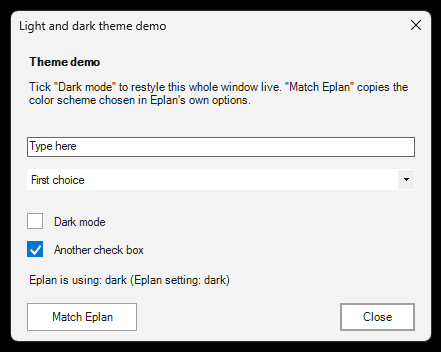
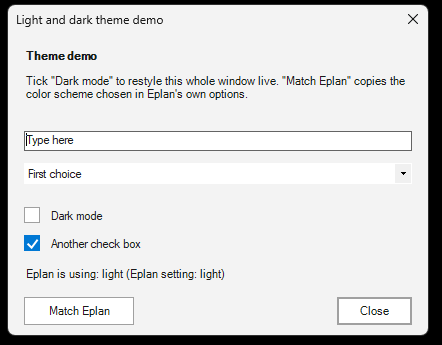
Confirm all three color scheme values for example 04 in Eplan 2026
Dark (1), light (2) and automatic (0) read correctly. Adds light and
automatic screenshots from Eplan; updates compatibility notes.

diff --git a/examples/04-light-dark-theme/LightDarkTheme.cs b/examples/04-light-dark-theme/LightDarkTheme.cs
@@ -3,7 +3,7 @@
 // Purpose   : Restyle your own window live with a "Dark mode" check box, and match Eplan's own color scheme automatically.
 // You learn : Color palettes, restyling controls in a loop, custom-painted check box, dark title bar, reading an Eplan setting
 // Level     : Intermediate
-// Tested in : Compile-checked against Eplan Electric P8 2025.0.3 and 2026.0.3 (run in 2026 with Eplan set to dark; 2025 and light/auto still to test)
+// Tested in : Compile-checked against Eplan Electric P8 2025.0.3 and 2026.0.3 (run in 2026 with Eplan set to dark, light and automatic; 2025 not tested)
 // Author    : Justin Walz
 // License   : MIT (see LICENSE in the repo root)
 // ============================================================

diff --git a/examples/04-light-dark-theme/README.md b/examples/04-light-dark-theme/README.md
@@ -2,11 +2,11 @@
 
 **Level:** Intermediate  **File:** [LightDarkTheme.cs](LightDarkTheme.cs)
 
-| Dark | Light |
-|------|-------|
-| ![Dark theme](screenshot-dark.png) | ![Light theme](screenshot-light.png) |
+| Dark | Light | Automatic (Windows decides) |
+|------|-------|-----------------------------|
+| ![Dark theme](screenshot-dark.png) | ![Light theme](screenshot-light.png) | ![Automatic setting](screenshot-automatic.png) |
 
-_Both screenshots were taken from the script running in Eplan 2026. The window is a normal Windows window; it just follows the color scheme you choose._
+_All screenshots were taken from the script running in Eplan 2026. The window is a normal Windows window; it just follows the color scheme set in Eplan. The status line at the bottom shows which setting it found._
 
 ## What it does
 
@@ -42,7 +42,7 @@ Eplan keeps the choice from its options in the setting `USER.MF.GuiColorScheme`:
 
 The script reads that setting. For 0 it asks Windows (the `AppsUseLightTheme` registry value). If anything fails, it uses dark, which is Eplan's default. This is more reliable than guessing from pixels on the screen.
 
-The meaning of the values comes from Eplan's own configuration files. With Eplan 2026 set to dark (value 1), the script reports "Eplan setting: dark". The values 0 (automatic) and 2 (light) have not been tried inside Eplan yet. If you change the scheme in Eplan, Eplan may need a restart before it shows it, and the setting is what the script reads.
+The meaning of the values comes from Eplan's own configuration files, and all three were confirmed in Eplan 2026: set to dark the script reports "Eplan setting: dark", set to light "Eplan setting: light", and set to automatic "Eplan setting: automatic, so Windows decides" (the third screenshot, with Windows in light mode). If you change the scheme in Eplan, Eplan may need a restart before it shows it, and the setting is what the script reads.
 
 ## How to load it
 
@@ -64,9 +64,9 @@ See [Getting started](../../docs/getting-started.md) if this is your first scrip
 | Eplan version | Compiles | Run in Eplan |
 |---------------|----------|--------------|
 | 2025.0.3 | Yes | Pending |
-| 2026.0.3 | Yes | Yes (Eplan set to dark) |
+| 2026.0.3 | Yes | Yes (dark, light and automatic) |
 
-Tick and untick change every color as expected, and the script correctly read Eplan 2026's dark setting. Still to confirm: Eplan set to light or automatic, and Eplan 2025. The setting and the `Settings` methods exist in both versions.
+Tick and untick change every color as expected, and the script read all three of Eplan 2026's color scheme values correctly. Not yet tried: automatic with Windows set to dark mode, and Eplan 2025. The setting and the `Settings` methods exist in both versions.
 
 On screen, text can show faint orange and blue edges in a screenshot. That is normal Windows text smoothing (ClearType), not a wrong color.
 
